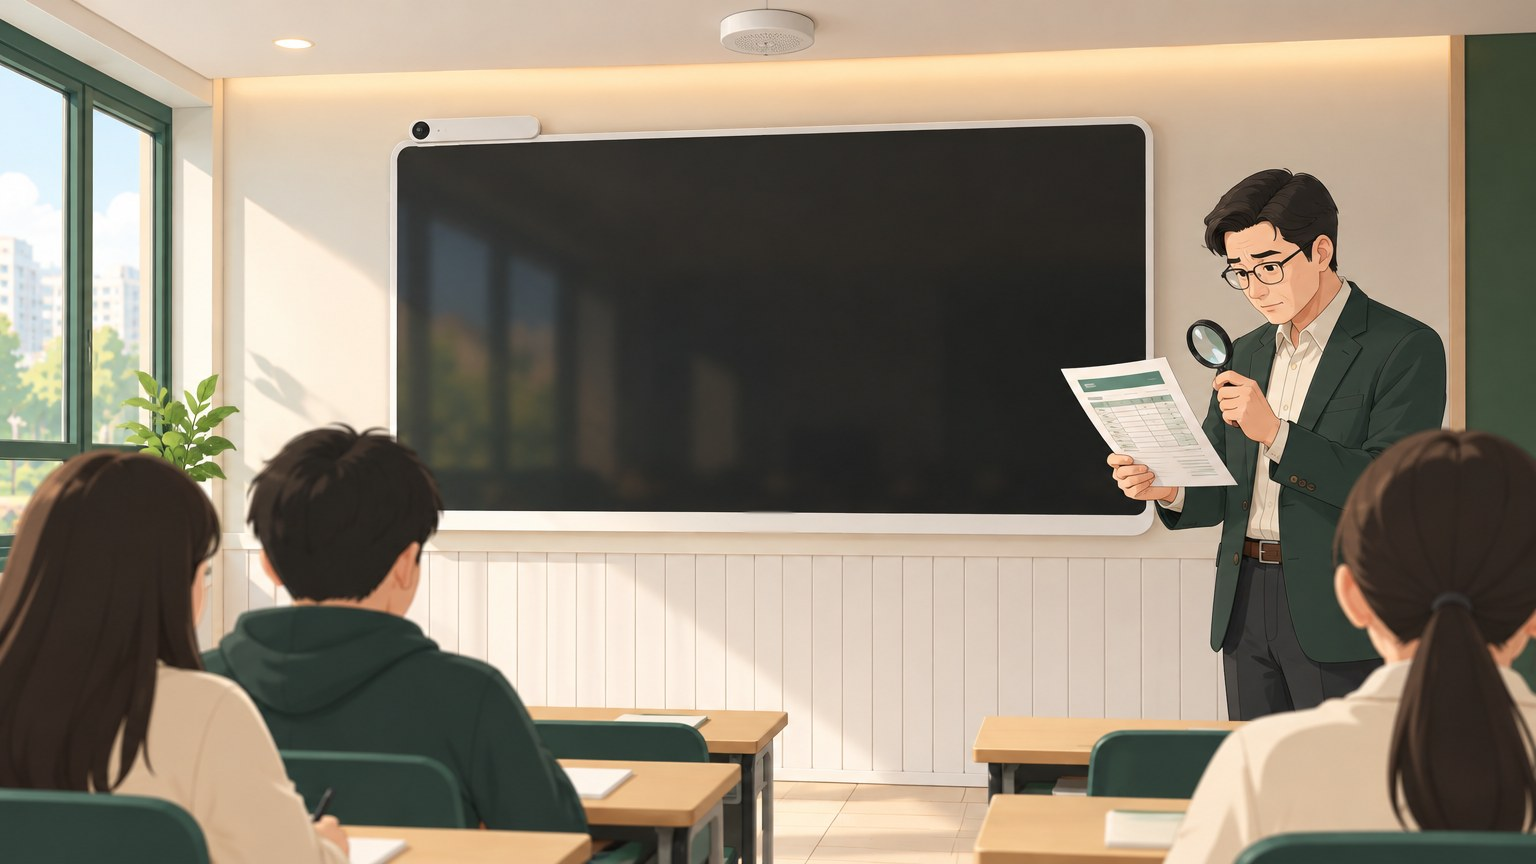
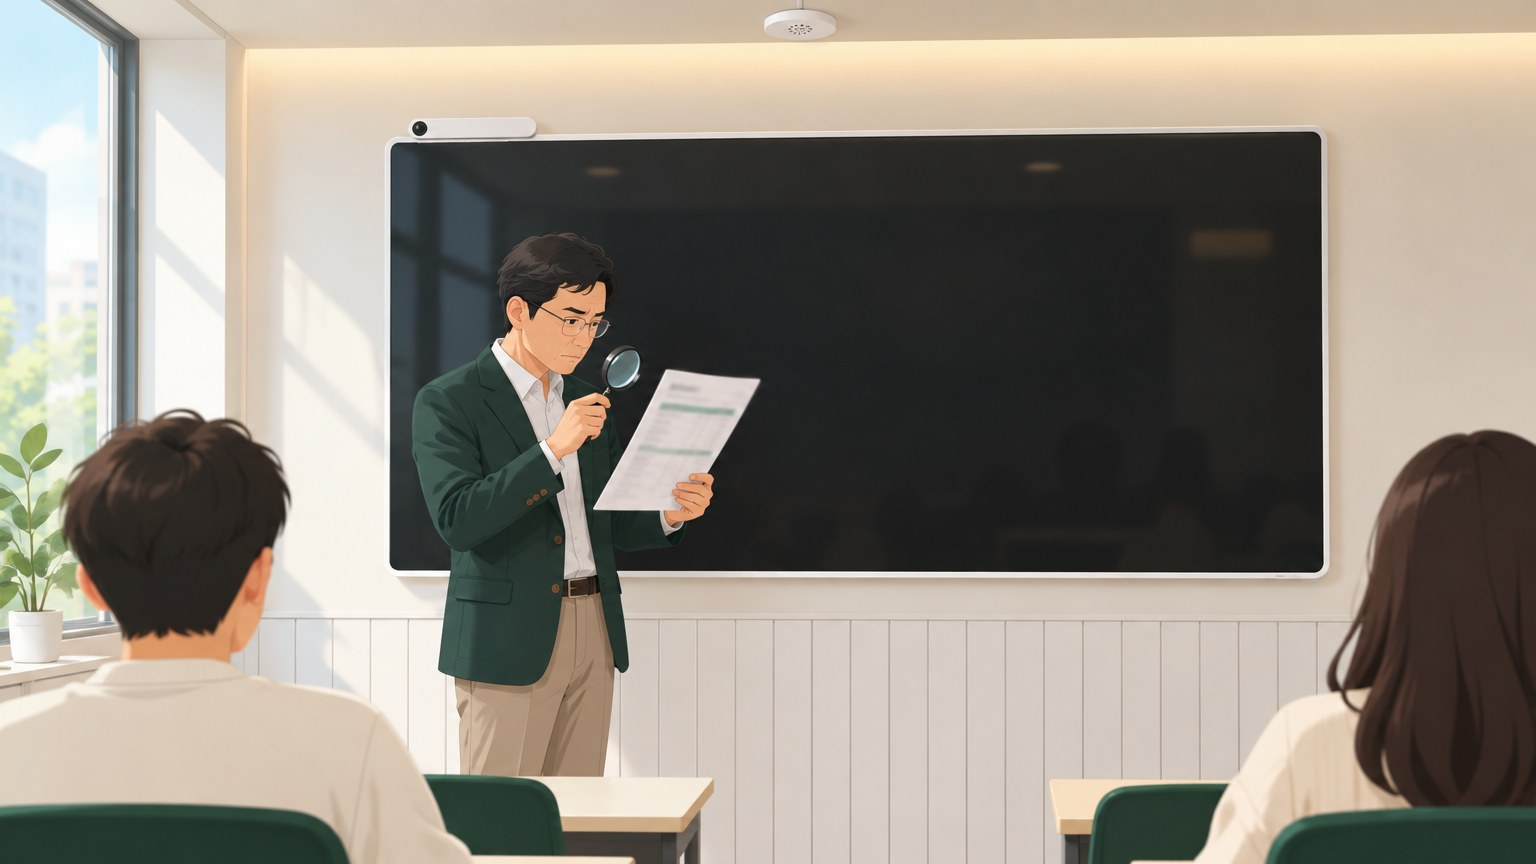
docs(content-hook-lab): 전자칠판 86인치 기준으로 대표 이미지 7장 교체
Claude-Session: https://claude.ai/code/session_019PDrQr4TT2VMjANwfc2fRc

diff --git a/docs/active/content-hook-lab/README.md b/docs/active/content-hook-lab/README.md
@@ -147,6 +147,7 @@
 루틴은 카피만 만든다. 사람이 초안으로 지정해 대표 이미지를 만들 때는 아래를 지킨다.
 
 - **전자칠판은 실제 클래스인 형태로.** 스탠드형은 얇은 은색 프레임 아래 양쪽에 다리 두 개가 붙어서 시작해 아래로 벌어진다(바깥 다리는 비스듬히, 안쪽 다리는 거의 수직, 작은 바퀴). 직선 기둥 두 개·가로 받침대 카트형은 쓰지 않는다. 모양이 불안하면 벽걸이형(스탠드 없음, 흰 둥근 프레임, 상단 왼쪽 모서리에 가로 막대형 카메라)으로 그린다. 다리와 바퀴는 책상 뒤로 가려도 된다.
+- **크기는 86인치 기준.** 가로 약 1.9m·세로 약 1.1m로 성인 키보다 넓다. 스탠드형이면 화면 위쪽이 사람 머리보다 높고(약 2.1m) 아래쪽이 허리 높이, 벽걸이형도 아래쪽이 허리 높이다. 사람을 칠판 옆에 두어 크기가 보이게 하고, 칠판이 화면 가로의 절반 안팎을 차지하게 한다.
 - **태블릿·휴대폰 화면은 쓰는 사람을 향한다.** 화면이 보는 사람(카메라) 쪽을 향하면 안 된다. 화면 내용을 보여 줄 때는 어깨 너머 구도로, 아니면 기기 뒷면이 보이게 한다. 태블릿은 가로, 휴대폰은 세로로 든다.
 - **카드에서 잘리는 범위를 고려한다.** 대표 이미지는 16:9로 만들지만 블로그 목록 카드(`components/blog/BlogPostCard.tsx`)는 4:3으로 가운데를 잘라 좌우 약 12%씩 잘린다. 칠판과 인물은 가로 가운데 65% 안에 둔다. 본문 대표 이미지와 대표 글 카드는 자르지 않는다(`object-contain`).
 - 화면 안 글자·숫자·로고는 넣지 않는다(생성 이미지의 글자는 깨지고, 가짜 로고가 생긴다).

diff --git a/docs/reports/content-hook-lab/2026-11-04-admin-permission-round.md b/docs/reports/content-hook-lab/2026-11-04-admin-permission-round.md
@@ -75,3 +75,7 @@
 - 탑2: 태블릿·휴대폰 화면이 카메라를 향함 → 원장은 어깨 너머로 가로 태블릿, 학부모는 옆모습으로 세로 휴대폰. 뒤 칠판은 카메라가 달린 벽걸이.
 - 미들2: 직선 기둥 스탠드 → 카메라가 달린 벽걸이, 클립보드는 원장 쪽을 향하게, 인물을 가운데 쪽으로.
 - 미들1(벽걸이)은 그대로. 이전 초안 4편 이미지도 점검: 탑1 `teacher-leaves-lesson-materials-check`의 나가는 강사는 4:3 카드에서 거의 잘린다(칠판은 보임).
+
+### 86인치 크기 수정 (사람 검토)
+
+"전자칠판은 더 커야 함, 86인치 기준" 지적으로 칠판이 보이는 대표 이미지 7장을 다시 만들었다(이번 4편 + 이전 초안 탑1·탑2·미들1). 이전 미들2는 칠판이 태블릿 화면 속에만 있어 그대로 둔다. 이전 탑2 이미지는 칠판 판서가 가짜 글자로 나와 판서 영역만 흐리게 처리했다. 7장 모두 4:3 카드 잘림 범위 안에 칠판과 인물이 들어온다. 교체 전후 URL은 세션 스크래치패드 `hero_swap_log.json`에 남겼다.
